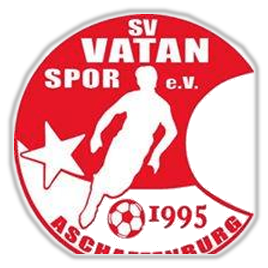
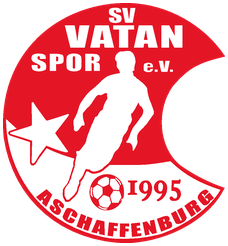
Wappen: 4 HD-Ersetzungen normalisiert + Intake-Tool
tools/wappen_intake.py: deckelt neu abgelegte Wappen auf 240px (alpha-recrop +
LANCZOS), subfolder-aware. HD-Quelle ohne sichtbaren Qualitaetsverlust, aber
kein MB-Bloat im Monolith (z.B. Ludwigshafener SC 3840px/369KB -> 246px/30KB).
4 Wappen normalisiert (Sportfreunde Schwaig, Unterreichenbach, Vatan Spor
Aschaffenburg, Ludwigshafener SC).

diff --git a/tools/wappen_intake.py b/tools/wappen_intake.py
@@ -1,0 +1,71 @@
+#!/usr/bin/env python3
+# -*- coding: utf-8 -*-
+"""wappen_intake.py - normalisiert neu abgelegte Vereinswappen.
+
+Findet Wappen in Wappen/<Landesverband>/*.png, schneidet auf den nicht-
+transparenten Inhalt zu (alpha-bbox, seitenverhaeltnis-treu) und deckelt die
+laengste Kante auf 240px (Pipeline-Standard) + kleiner transparenter Rand.
+Aendert nur, was noetig ist (oversize oder ungetrimmt). In-place.
+
+  python tools/wappen_intake.py                  # Report: was waere zu tun
+  python tools/wappen_intake.py --apply          # alle oversize/ungetrimmt fixen
+  python tools/wappen_intake.py --apply --only svxyz_12,abc_3
+Fuer Transparenz-/Freistellungs-Fixes danach: tools/wappen_doctor.py --recrop
+"""
+import os, sys, glob, argparse
+import numpy as np
+from PIL import Image
+
+ROOT = os.path.dirname(os.path.dirname(os.path.abspath(__file__)))
+WROOT = os.path.join(ROOT, "Wappen")
+TARGET = 240
+PAD = 3
+
+def team_id(p): return os.path.splitext(os.path.basename(p))[0]
+
+def normalize(path, apply):
+    im = Image.open(path).convert("RGBA")
+    a = np.asarray(im); al = a[..., 3]
+    ys, xs = np.where(al > 16)
+    if len(xs) == 0:
+        return None
+    box = (xs.min(), ys.min(), xs.max() + 1, ys.max() + 1)
+    trimmed = box != (0, 0, im.width, im.height)
+    long_side = max(box[2] - box[0], box[3] - box[1])
+    oversize = long_side > TARGET + 8
+    if not (trimmed or oversize):
+        return None
+    if not apply:
+        return f"{im.size[0]}x{im.size[1]} -> trim{'+down' if oversize else ''}"
+    crop = im.crop(box)
+    w, h = crop.size; sc = TARGET / max(w, h)
+    if sc < 1:
+        crop = crop.resize((max(1, round(w * sc)), max(1, round(h * sc))), Image.LANCZOS)
+    cv = Image.new("RGBA", (crop.width + 2 * PAD, crop.height + 2 * PAD), (0, 0, 0, 0))
+    cv.alpha_composite(crop, (PAD, PAD))
+    cv.save(path)
+    return f"-> {cv.size[0]}x{cv.size[1]}"
+
+def main():
+    ap = argparse.ArgumentParser()
+    ap.add_argument("--apply", action="store_true")
+    ap.add_argument("--only", default="")
+    args = ap.parse_args()
+    only = set(s.strip() for s in args.only.split(",") if s.strip())
+    paths = []
+    for dp, _d, fs in os.walk(WROOT):
+        for f in fs:
+            if f.lower().endswith(".png"):
+                paths.append(os.path.join(dp, f))
+    if only:
+        paths = [p for p in paths if team_id(p) in only]
+    n = 0
+    for p in sorted(paths):
+        r = normalize(p, args.apply)
+        if r:
+            n += 1
+            print(f"  {team_id(p):34} {r}")
+    print(f"\n{n} Wappen {'normalisiert' if args.apply else 'zu normalisieren (--apply zum Schreiben)'}")
+
+if __name__ == "__main__":
+    main()
